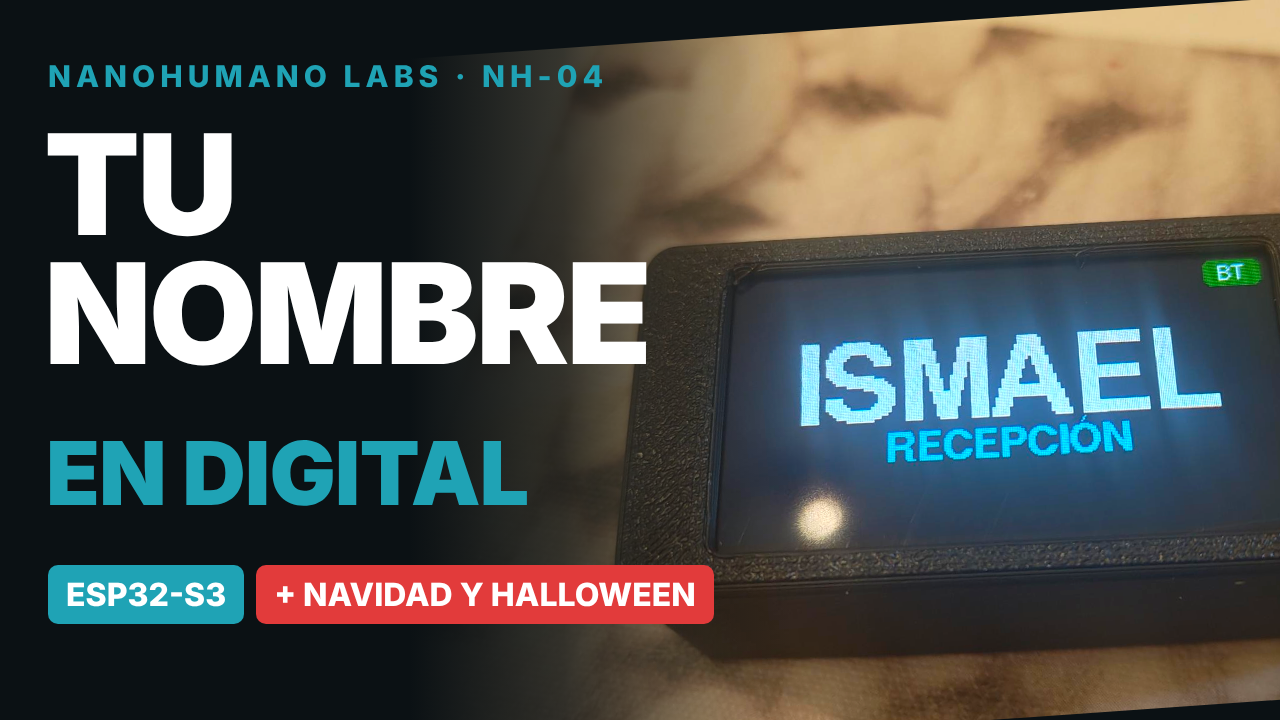
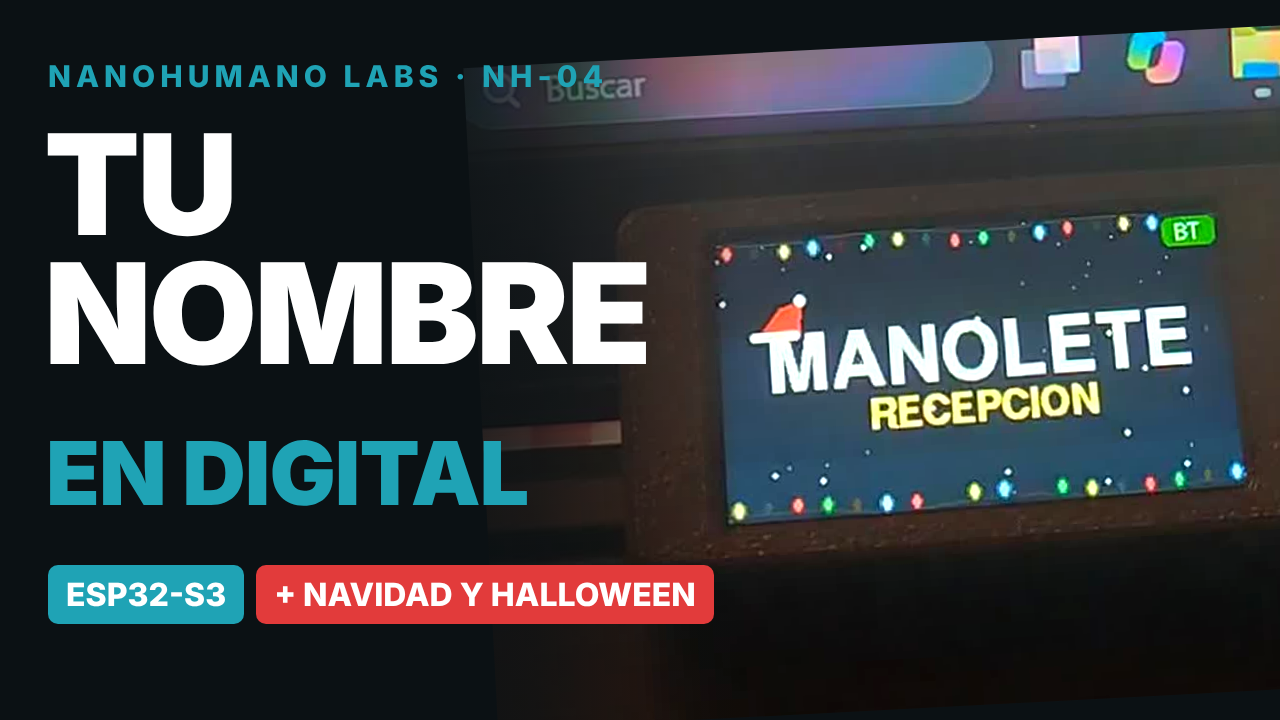
Nombres de ejemplo: Manolete y Eustakio; nueva portada
Claude-Session: https://claude.ai/code/session_01TtNH8SMP7DJwPqra8Ujtwe

diff --git a/index.html b/index.html
@@ -152,7 +152,7 @@ footer{text-align:center;font-size:12px;color:var(--mut);margin-top:20px;letter-
 const W = 320, H = 170, SC = 3;
 const cv = document.getElementById('prev'), ctx = cv.getContext('2d');
 ctx.setTransform(SC, 0, 0, SC, 0, 0);
-const st = { nombre: 'ISMAEL', empresa: 'RECEPCIÓN', letra: 0, tam: 0 };
+const st = { nombre: 'MANOLETE', empresa: 'RECEPCIÓN', letra: 0, tam: 0 };
 /* ---------- utilidades ---------- */
 const rnd = (a, b) => a + Math.random() * (b - a);
 const easeOut = x => 1 - Math.pow(1 - Math.min(Math.max(x, 0), 1), 3);
@@ -554,7 +554,7 @@ function textoNombre(cx, cy, maxW, color, opts = {}) {
 }
 
 /* ======== Estado ======== */
-const cfg = { perf: [{ n: 'ISMAEL', e: 'RECEPCIÓN', f: 0, s: 0 }, { n: 'JAVI', e: 'RECEPCIÓN', f: 0, s: 0 }], act: 0, tema: 1, dia: 0, hoy: 0, msg: '', br: 140, sc: 0, col: '1FA3B5' };
+const cfg = { perf: [{ n: 'MANOLETE', e: 'RECEPCIÓN', f: 0, s: 0 }, { n: 'EUSTAKIO', e: 'RECEPCIÓN', f: 0, s: 0 }], act: 0, tema: 1, dia: 0, hoy: 0, msg: '', br: 140, sc: 0, col: '1FA3B5' };
 const $ = id => document.getElementById(id);
 const enc = new TextEncoder(), dec = new TextDecoder();
 let dev = null, cCmd = null, cCfg = null, cola = Promise.resolve(), segRest = 0, temporizador = null;
